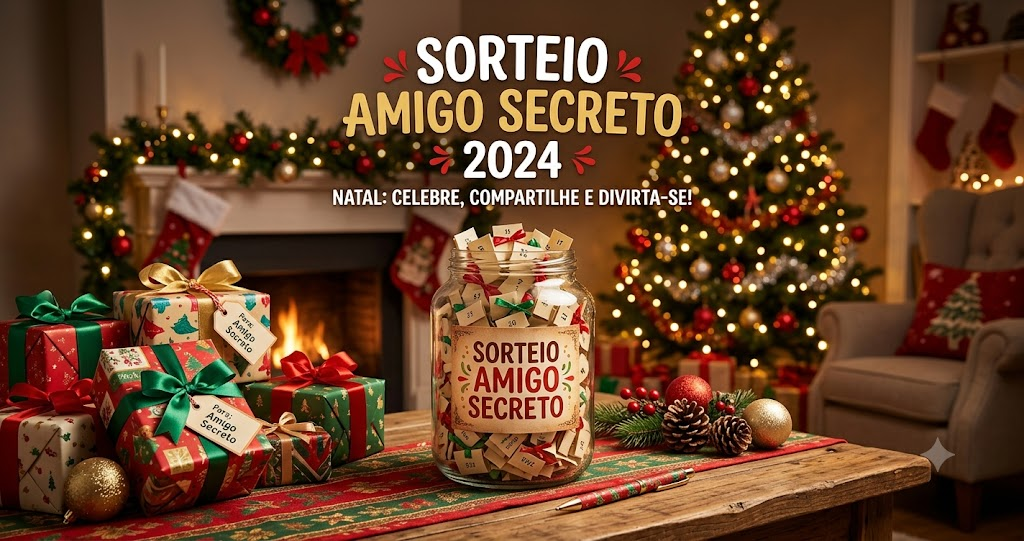
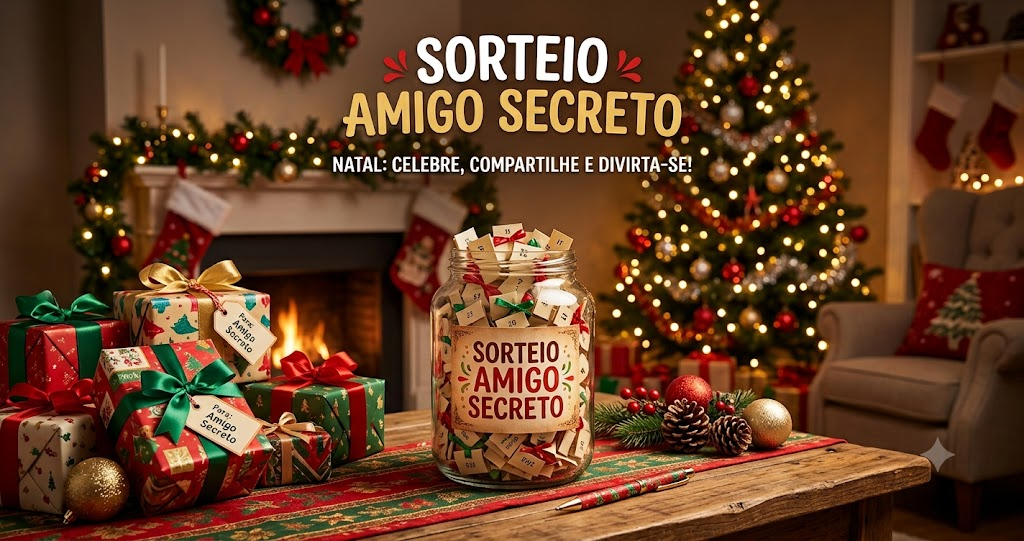
Correções finais

Changed region(s): [[0.3125, 0.2366, 0.6875, 0.3845], [0.3125, 0.9168, 0.3438, 0.9464]]

diff --git a/src/App.vue b/src/App.vue
@@ -1,15 +1,45 @@
 <template>
-  <div style="background: #f5f5f5; min-height: 100vh; padding: 2rem 1rem;">
+  <!-- TELA DE LOGIN INICIAL -->
+  <div v-if="!nomeSalvo && !isAdmin" style="background: #f5f5f5; min-height: 100vh; padding: 2rem 1rem; display: flex; justify-content: center; align-items: center;">
+    <div style="background: white; padding: 3rem 2rem; border-radius: 15px; box-shadow: 0 10px 30px rgba(0,0,0,0.1); text-align: center; width: 100%; max-width: 400px; position: relative;">
+      
+      <button @click="openAdmin" style="position: absolute; top: 15px; right: 15px; background: transparent; border: none; font-size: 1.2rem; cursor: pointer;" title="Acesso Admin">🔒</button>
+
+      <h1 style="color: #c62828; font-size: 2.2rem; margin-top: 0;">🎅 Natal 2026 🎄</h1>
+      <p style="color: #555; margin-bottom: 2rem; font-size: 1.1rem;">Selecione seu nome para entrar</p>
+      
+      <select v-model="nomeSelecionadoGlobally" style="width: 100%; padding: 15px; font-size: 1.1rem; border-radius: 8px; border: 1px solid #ccc; margin-bottom: 1.5rem;">
+        <option value="" disabled selected>👤 Quem é você?</option>
+        <option v-for="p in participants" :key="p.name" :value="p.name">
+          {{ p.name }}
+        </option>
+      </select>
+      
+      <button @click="salvarNomeGlobal" :disabled="!nomeSelecionadoGlobally" style="width: 100%; padding: 15px; background: #4CAF50; color: white; border: none; border-radius: 8px; font-size: 1.1rem; font-weight: bold; cursor: pointer; transition: 0.3s;" :style="nomeSelecionadoGlobally ? '' : 'opacity: 0.5; cursor: not-allowed;'">
+        Entrar
+      </button>
+    </div>
+  </div>
+
+  <!-- TELA DO ADMINISTRADOR (Isolada) -->
+  <div v-else-if="isAdmin" style="background: #f5f5f5; min-height: 100vh; padding: 2rem 1rem; display: flex; justify-content: center; align-items: center;">
+    <div style="background: white; padding: 3rem 2rem; border-radius: 15px; box-shadow: 0 10px 30px rgba(0,0,0,0.1); text-align: center; width: 100%; max-width: 500px;">
+        <h3 style="color: #263238; margin-top: 0; font-size: 1.5rem;">⚙️ Painel do Administrador</h3>
+        <p style="font-size: 14px; color: #546e7a;">Edite a lista abaixo e clique no botão para apagar e gerar novo sorteio.</p>
+        <textarea v-model="adminNamesList" rows="12" style="width: 100%; padding: 10px; border-radius: 5px; border: 1px solid #ccc; font-size: 1rem;"></textarea>
+        <button @click="regerarSorteio" style="margin-top: 15px; padding: 12px; background: #E53935; color: white; border: none; border-radius: 5px; cursor: pointer; width: 100%; font-weight: bold; font-size: 1.1rem;">🔄 Refazer Sorteio Oficial</button>
+        <button @click="isAdmin = false" style="margin-top: 10px; padding: 10px; background: #90a4ae; color: white; border: none; border-radius: 5px; cursor: pointer; width: 100%; font-size: 1rem;">Sair do Painel</button>
+    </div>
+  </div>
+
+  <!-- SITE PRINCIPAL -->
+  <div v-else style="background: #f5f5f5; min-height: 100vh; padding: 2rem 1rem;">
     <!-- CAIXA PRINCIPAL DO SITE -->
     <div style="background: white; text-align: center; font-family: sans-serif; padding: 2rem; width: 100%; max-width: 800px; margin: auto; border-radius: 15px; box-shadow: 0 5px 20px rgba(0,0,0,0.1); box-sizing: border-box; position: relative;">
       
       <!-- IDENTIFICAÇÃO DO USUÁRIO (Canto Superior Direito) -->
       <div style="position: absolute; top: 15px; right: 20px;">
-        <select v-if="!nomeSalvo" v-model="nomeSelecionadoGlobally" @change="salvarNomeGlobal" style="padding: 5px 10px; border-radius: 5px; border: 1px solid #ccc; font-size: 0.9rem; background: #f0f0f0;">
-          <option value="" disabled selected>👤 Entrar como...</option>
-          <option v-for="p in participants" :key="p.name" :value="p.name">{{ p.name }}</option>
-        </select>
-        <div v-else style="display: flex; align-items: center; gap: 8px;">
+        <div style="display: flex; align-items: center; gap: 8px;">
           <span style="font-size: 0.9rem; font-weight: bold; color: #1565c0;">👤 {{ nomeSalvo }}</span>
           <button @click="trocarUsuario" style="background: transparent; border: none; font-size: 0.8rem; color: #f44336; cursor: pointer; text-decoration: underline; padding: 0;">Sair</button>
           <button @click="openAdmin" style="background: transparent; border: none; font-size: 1.2rem; cursor: pointer; padding: 0;" title="Acesso Admin">🔒</button>
@@ -38,24 +68,14 @@
           </ul>
         </div>
 
-        <div v-if="isAdmin" style="background: #eceff1; padding: 20px; border: 2px solid #607d8b; border-radius: 8px; margin-bottom: 20px; text-align: left;">
-          <h3 style="color: #263238; margin-top: 0;">⚙️ Painel do Administrador</h3>
-          <p style="font-size: 14px; color: #546e7a;">Edite a lista abaixo e clique no botão para apagar e gerar novo sorteio.</p>
-          <textarea v-model="adminNamesList" rows="8" style="width: 100%; padding: 10px; border-radius: 5px; border: 1px solid #ccc;"></textarea>
-          <button @click="regerarSorteio" style="margin-top: 15px; padding: 12px; background: #E53935; color: white; border: none; border-radius: 5px; cursor: pointer; width: 100%; font-weight: bold;">🔄 Refazer Sorteio Oficial</button>
-          <button @click="isAdmin = false" style="margin-top: 10px; padding: 10px; background: #90a4ae; color: white; border: none; border-radius: 5px; cursor: pointer; width: 100%;">Fechar Painel</button>
-        </div>
-
+        <!-- (Painel do Administrador isolado movido para fora) -->
         <div v-if="savedLocally && !revealedName && !isAdmin" style="background: #e3f2fd; padding: 20px; border-radius: 8px; border: 1px solid #90caf9; margin-top: 20px;">
           <p style="font-size: 1.2rem; color: #1565c0; font-weight: bold;">{{ nomeSalvo }}, você já tirou seu amigo secreto neste aparelho!</p>
           <button @click="showSavedResult" style="margin-top: 10px; padding: 15px; font-size: 16px; cursor: pointer; background: #1976D2; color: white; border: none; border-radius: 8px; width: 100%; font-weight: bold;">👀 Ver meu resultado novamente</button>
         </div>
 
-        <div v-if="!revealedName && !savedLocally && !isAdmin">
-          <div v-if="!nomeSalvo">
-            <p style="font-size: 1.2rem; color: #555;">Selecione seu nome no canto superior direito para participar do sorteio.</p>
-          </div>
-          <div v-else>
+        <div v-if="!revealedName && !savedLocally">
+          <div>
             <p style="font-size: 1.2rem; color: #555;">Você está participando como <b>{{ nomeSalvo }}</b>.</p>
             
             <div v-if="participants.find(p => p.name === nomeSalvo)?.hasSeen" style="background: #ffebee; padding: 15px; border-radius: 8px; border: 1px solid #ef9a9a; margin-top: 15px;">
@@ -67,7 +87,7 @@
           </div>
         </div>
 
-        <div v-if="revealedName && !isAdmin">
+        <div v-if="revealedName">
           <h2>Você tirou:</h2>
           <h1 style="color: #E53935; font-size: 3.5rem; margin: 20px 0; background: #ffebee; padding: 20px; border-radius: 10px; border: 2px dashed #E53935;">{{ revealedName }}</h1>
           <p style="font-size: 1.3rem; font-weight: bold; color: #d32f2f;">📸 Tire um PRINT desta tela para não esquecer!</p>
@@ -76,7 +96,7 @@
           <button @click="resetView" style="margin-top: 10px; padding: 12px; font-size: 16px; background: #333; color: white; border: none; border-radius: 5px; cursor: pointer; width: 100%;">Sair e Ocultar</button>
         </div>
 
-        <div v-if="!revealedName && !isAdmin" style="margin-top: 40px; border-top: 1px solid #ccc; padding-top: 20px;">
+        <div v-if="!revealedName" style="margin-top: 40px; border-top: 1px solid #ccc; padding-top: 20px;">
           <h3 style="color: #666; font-size: 1.1rem;">Ainda faltam tirar:</h3>
           <div style="display: flex; flex-wrap: wrap; justify-content: center; gap: 10px; margin-top: 15px;">
             <span v-for="p in participants.filter(p => !p.hasSeen)" :key="p.name" style="background: #e0e0e0; padding: 8px 16px; border-radius: 20px; font-size: 14px; color: #424242; font-weight: bold;">{{ p.name }}</span>